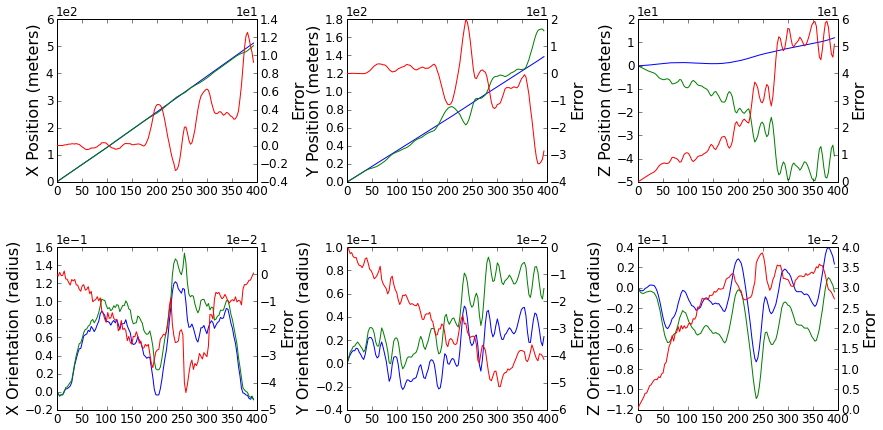
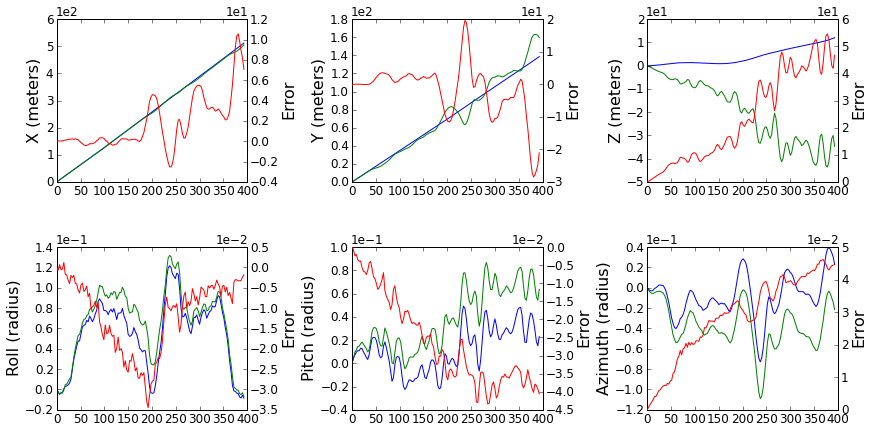
regen some plots. added explanation for feature initialization position drift

diff --git a/Thesis/chapter5.tex b/Thesis/chapter5.tex
@@ -80,13 +80,35 @@ iteration. As a result, the accuracy of these parameters varies.
 Ideally, the coordinates should stay at a relatively fixed value.
 However, the plot indicates a variation as the vehicle travels along.
 Figure \ref{fltfig:2} shows the tracking of these parameters over the
-entire processed frames. First column shows the feature initial point
-with its initial value removed. All feature initialized at $1^{st}$
-frame has a stable initialization coordinate with little variation.
-Second column shows the feature angle parameters with their initial
-value removed. Third column shows the angle parameters with their mean
-value removed, which shows a clearer variation pattern of these two
-angles.
+entire processed frames. 
+
+First column shows the feature initialization coordinates with the
+initial value removed. All feature initialized at $1^{st}$ frame has a
+stable initialization coordinate with little variation. However,
+features added at later frames shows a significant drift from their
+initial positions. This is a direct result of the filter correction
+process. When new features were added to the filter, it has not
+establish correlation with all the other features and the world frame
+parameters, which causes its correction on initialization point is
+slightly different than all the existing features and the world frame
+position. As a future improvement, it is more reasonable for the newly
+added features to inherent the cross-correlation on the initialization
+coordinates between the deleted features and the other state vector
+elements. 
+
+Second and third column show the feature angle parameters with their
+initial value and mean value removed. For all features, whether
+initialized at first frame, or later frames, these angle estimates all
+diverged slightly from the initial values. This is not surprising
+since the initial depth of the feature is unknown, to compensate for
+the incorrect gain, filter must change the angles estimates slightly
+to arrive at a predicted measurements that agree with the actual
+measurements. Secondly, the SUAS rotation motion contributes to the
+variation pattern of the angle estimates. $\varphi$ has a high
+correlation with the Z rotation, and $\theta$ is correlated to the X
+rotation. 
+% doesn't make sense. By definition, X rotation should have bigger
+% impact on varphi, Z rotation has bigger impact on theta
 
 \begin{figure}[h]
 \centering
@@ -190,7 +212,7 @@ will require a reset procedure to
 \end{enumerate}
 
 \noindent for any large area operation. 
-
+\FloatBarrier
 \section{Accuracy}
 \subsection{SUAS Localization}
 
@@ -216,7 +238,7 @@ diverging within the 400 frames processed.
 \caption{SUAS position and orientation}
 \label{fltfig:6}
 \end{figure}
-
+\FloatBarrier
 \subsection{Features Mapping}\label{sec:accuracy_features}
 
 Although raw ground truth data for the terrain was downloaded from

diff --git a/Thesis/chapter3.tex b/Thesis/chapter3.tex
@@ -39,7 +39,7 @@ to the feature. The elevation-azimuth pair $[\varphi_{i}^{C},
 initialization point to the feature. The vector is given by
 \begin{equation}
 \label{eq:m}
-m(\phi_{i}^{C}, \theta_{i}^{C})=\begin{bmatrix}
+m(\varphi_{i}^{C}, \theta_{i}^{C})=\begin{bmatrix}
 \cos\varphi_{i}^{C}\cos\theta _{i}^{C} \\
 \cos\varphi_{i}^{C}\sin\theta _{i}^{C} \\
 \sin\varphi_{i}^{C}
